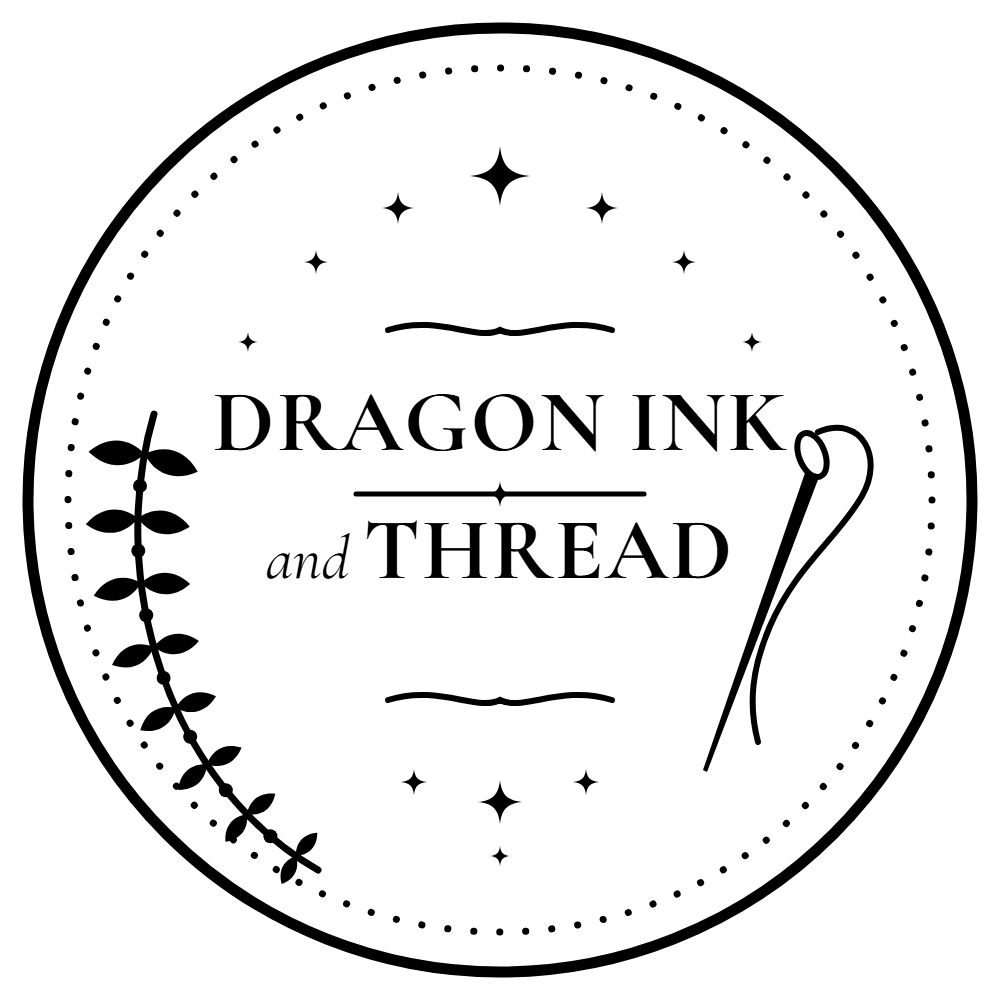
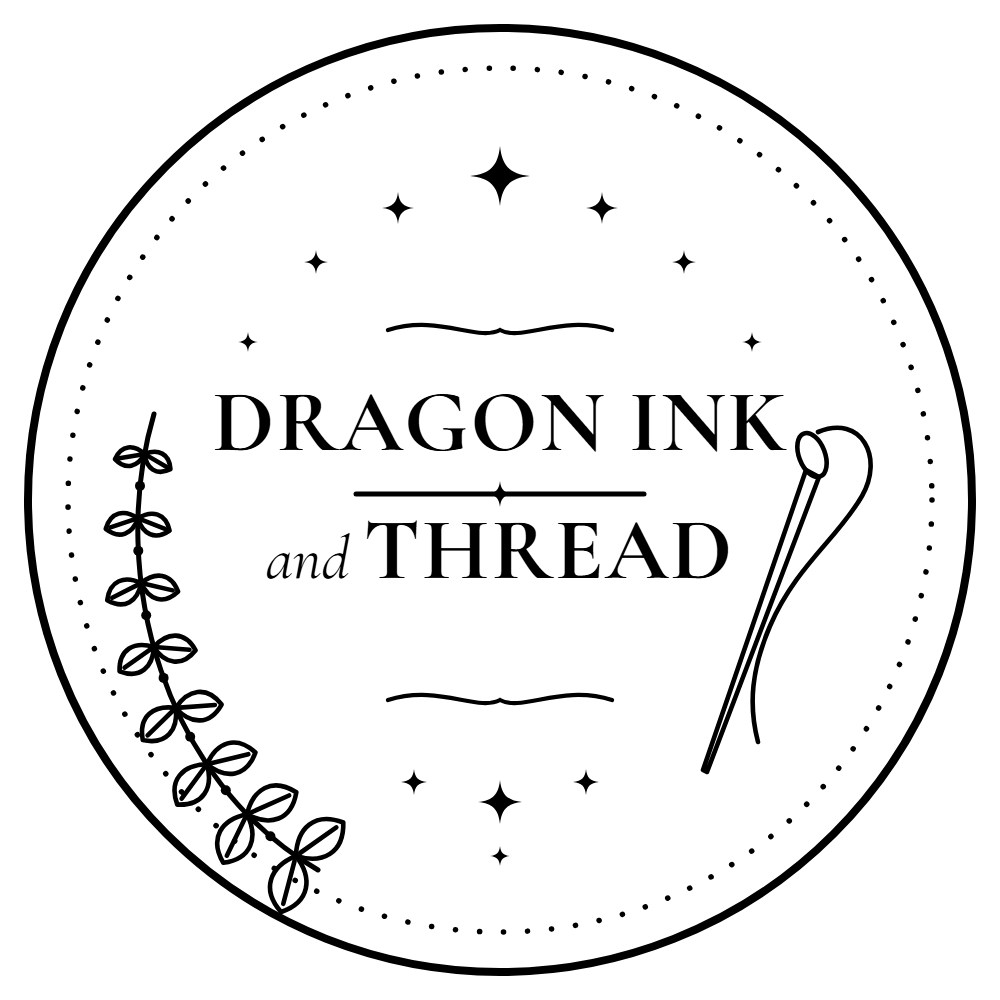
Fine botanical outlines instead of solid clip-art leaves
Owner supplied a reference: delicate outlined botanicals, not filled shapes.

Leaves are now OUTLINED with a centre vein, the needle is hollow, and the
stems, flourishes and both rings are lighter to match. Leaf stroke is scaled
by 34/len so a small leaf keeps the same LINE WEIGHT as a large one instead
of looking heavier as it shrinks.

Three shape changes to match the reference: fuller leaf (the first outline
was too narrow and read as an insect wing), spread down from 82 to 70 so
they angle forward rather than stick straight out, and the TAPER REVERSED -
small leaves at the top of the vine growing fuller toward the base, which is
what a real sprig does.

WARNING recorded in the file and worth repeating: at 35mm a 4.6-unit stroke
is about 0.16mm, which is under the ~0.25mm a rubber stamp reliably holds.
The stamped preview shows it - this version goes patchy sooner than the
solid one did. This style wants a 45mm die, or it is better as a printed
mark than a stamp.

diff --git a/tools/print-kit/build-stamp-badge.js b/tools/print-kit/build-stamp-badge.js
@@ -32,10 +32,19 @@ const star = (x, y, r) =>
   '<path transform="translate(' + x + ',' + y + ') scale(' + (r / 18) + ')" d="' +
   "M0,-18 C1.2,-6 6,-1.2 18,0 C6,1.2 1.2,6 0,18 C-1.2,6 -6,1.2 -18,0 C-6,-1.2 -1.2,-6 0,-18 Z" + '"/>';
 
-// a pointed leaf, rotated to sit on the stem
-const leaf = (x, y, deg, len) =>
-  '<path transform="translate(' + x + ',' + y + ') rotate(' + deg + ') scale(' + (len / 34) + ')" d="' +
-  "M0,0 C9,-9 11,-22 0,-34 C-11,-22 -9,-9 0,0 Z" + '"/>';
+// A pointed leaf, OUTLINED with a centre vein - not a solid shape.
+// Solid filled leaves read as clip art at this scale; the botanical reference the owner
+// chose is all fine outline. Stroke is scaled back up by 34/len so a small leaf keeps the
+// same LINE WEIGHT as a large one instead of looking heavier as it shrinks.
+const LEAFW = 4.6;
+const leaf = (x, y, deg, len) => {
+  const k = len / 34, w = (LEAFW / k).toFixed(2);
+  return '<g transform="translate(' + x + ',' + y + ') rotate(' + deg + ') scale(' + k + ')" ' +
+    'fill="none" stroke="#000" stroke-width="' + w + '" stroke-linecap="round" stroke-linejoin="round">' +
+    '<path d="M0,0 C13,-10 15,-24 0,-34 C-15,-24 -13,-10 0,0 Z"/>' +
+    '<path d="M0,-3 L0,-29"/>' +
+    '</g>';
+};
 
 // SPRIGS ARE GENERATED ALONG THEIR STEM, NOT PLACED BY HAND.
 // The first two versions positioned every leaf individually and it read as a clump: the
@@ -45,7 +54,7 @@ const leaf = (x, y, deg, len) =>
 //
 // SPREAD is 82 degrees off the tangent - near perpendicular. 58 was tried first and the
 // leaves lay along the stem and tangled with it. Do not go back below about 70.
-const SPREAD = 82;
+const SPREAD = 70;
 
 function sprigOn(P, pairs, len0, lenStep, t0, t1, berries) {
   const bez = (t, i) => {
@@ -57,25 +66,25 @@ function sprigOn(P, pairs, len0, lenStep, t0, t1, berries) {
     return 3 * u * u * (P[1][i] - P[0][i]) + 6 * u * t * (P[2][i] - P[1][i]) + 3 * t * t * (P[3][i] - P[2][i]);
   };
   let out = '<path d="M' + P[0] + " C" + P[1] + " " + P[2] + " " + P[3] +
-    '" fill="none" stroke="#000" stroke-width="7" stroke-linecap="round"/>';
+    '" fill="none" stroke="#000" stroke-width="5" stroke-linecap="round"/>';
   for (let k = 0; k < pairs; k++) {
     const t = t0 + (k / (pairs - 1)) * (t1 - t0);
     const deg = Math.atan2(tan(t, 1), tan(t, 0)) * 180 / Math.PI;
-    const len = len0 - k * lenStep;
+    const len = len0 + k * lenStep;
     out += leaf(bez(t, 0), bez(t, 1), deg + 90 - SPREAD, len) +
            leaf(bez(t, 0), bez(t, 1), deg + 90 + SPREAD, len);
   }
   if (berries) {
     for (let k = 0; k < pairs - 1; k++) {
       const t = t0 + ((k + 0.5) / (pairs - 1)) * (t1 - t0);
-      out += '<circle cx="' + bez(t, 0).toFixed(1) + '" cy="' + bez(t, 1).toFixed(1) + '" r="7"/>';
+      out += '<circle cx="' + bez(t, 0).toFixed(1) + '" cy="' + bez(t, 1).toFixed(1) + '" r="5"/>';
     }
   }
   return out;
 }
 
 // the long sprig down the left
-const sprig = sprigOn([[188, 356], [140, 520], [200, 724], [352, 812]], 8, 56, 3.5, 0.08, 0.95, true);
+const sprig = sprigOn([[188, 356], [140, 520], [200, 724], [352, 812]], 8, 30, 4, 0.08, 0.95, true);
 
 // A CROWN AT THE TOP: two short sprigs meeting at the centre, mirrored. Each tapers from
 // its outer base in toward the join, which is what makes a pair read as one wreath rather
@@ -86,19 +95,20 @@ const sprig = sprigOn([[188, 356], [140, 520], [200, 724], [352, 812]], 8, 56, 3
 // into the draw list below to restore it, and take the three central stars out again.
 // eslint-disable-next-line no-unused-vars
 const crown =
-  sprigOn([[318, 300], [352, 230], [420, 194], [494, 186]], 4, 38, 5, 0.06, 0.94, false) +
-  sprigOn([[682, 300], [648, 230], [580, 194], [506, 186]], 4, 38, 5, 0.06, 0.94, false);
+  sprigOn([[318, 300], [352, 230], [420, 194], [494, 186]], 4, 24, 5, 0.06, 0.94, false) +
+  sprigOn([[682, 300], [648, 230], [580, 194], [506, 186]], 4, 24, 5, 0.06, 0.94, false);
 
 // the threaded needle, lower right
 const needle =
   // shaft: a FINE taper - 13 units at the eye down to a point. v1 was a slab and read
   // as a dagger rather than a needle.
-  '<path d="M806,470 L819,477 L707,772 L703,770 Z"/>' +
+  '<path d="M806,470 L819,477 L707,772 L703,770 Z" fill="none" stroke="#000" stroke-width="4.6" ' +
+  'stroke-linejoin="round"/>' +
   // the eye
-  '<ellipse cx="812" cy="455" rx="13" ry="23" transform="rotate(-21 812 455)" fill="none" stroke="#000" stroke-width="6"/>' +
+  '<ellipse cx="812" cy="455" rx="13" ry="23" transform="rotate(-21 812 455)" fill="none" stroke="#000" stroke-width="4.6"/>' +
   // thread, looped through and trailing back along the arc
   '<path d="M818,432 C862,414 884,458 862,496 C838,538 796,566 770,626 C752,668 748,704 758,742" ' +
-  'fill="none" stroke="#000" stroke-width="6" stroke-linecap="round"/>';
+  'fill="none" stroke="#000" stroke-width="4.6" stroke-linecap="round"/>';
 
 const stars =
   star(500, 176, 30) + star(398, 208, 16) + star(602, 208, 16) +
@@ -108,16 +118,16 @@ const stars =
 const flourish = (y, w) =>
   '<path d="M' + (C - w) + "," + y + " C" + (C - w * 0.55) + "," + (y - 16) + " " + (C - w * 0.2) + "," + (y + 12) + " " + C + "," + y +
   " C" + (C + w * 0.2) + "," + (y + 12) + " " + (C + w * 0.55) + "," + (y - 16) + " " + (C + w) + "," + y +
-  '" fill="none" stroke="#000" stroke-width="6" stroke-linecap="round"/>';
+  '" fill="none" stroke="#000" stroke-width="4.2" stroke-linecap="round"/>';
 
 const svg =
   '<svg xmlns="http://www.w3.org/2000/svg" viewBox="0 0 ' + S + " " + S + '" width="1000" height="1000">' +
     '<rect width="' + S + '" height="' + S + '" fill="#fff"/>' +
     '<g fill="#000">' +
       // rim and dotted ring
-      '<circle cx="' + C + '" cy="' + C + '" r="472" fill="none" stroke="#000" stroke-width="11"/>' +
-      '<circle cx="' + C + '" cy="' + C + '" r="432" fill="none" stroke="#000" stroke-width="7" ' +
-        'stroke-linecap="round" stroke-dasharray="0.1 26"/>' +
+      '<circle cx="' + C + '" cy="' + C + '" r="472" fill="none" stroke="#000" stroke-width="8"/>' +
+      '<circle cx="' + C + '" cy="' + C + '" r="432" fill="none" stroke="#000" stroke-width="5.5" ' +
+        'stroke-linecap="round" stroke-dasharray="0.1 24"/>' +
       '<g transform="translate(-34,58)">' + sprig + '</g>' + needle + stars +
       flourish(330, 112) + flourish(700, 112) +
       // the wordmark
